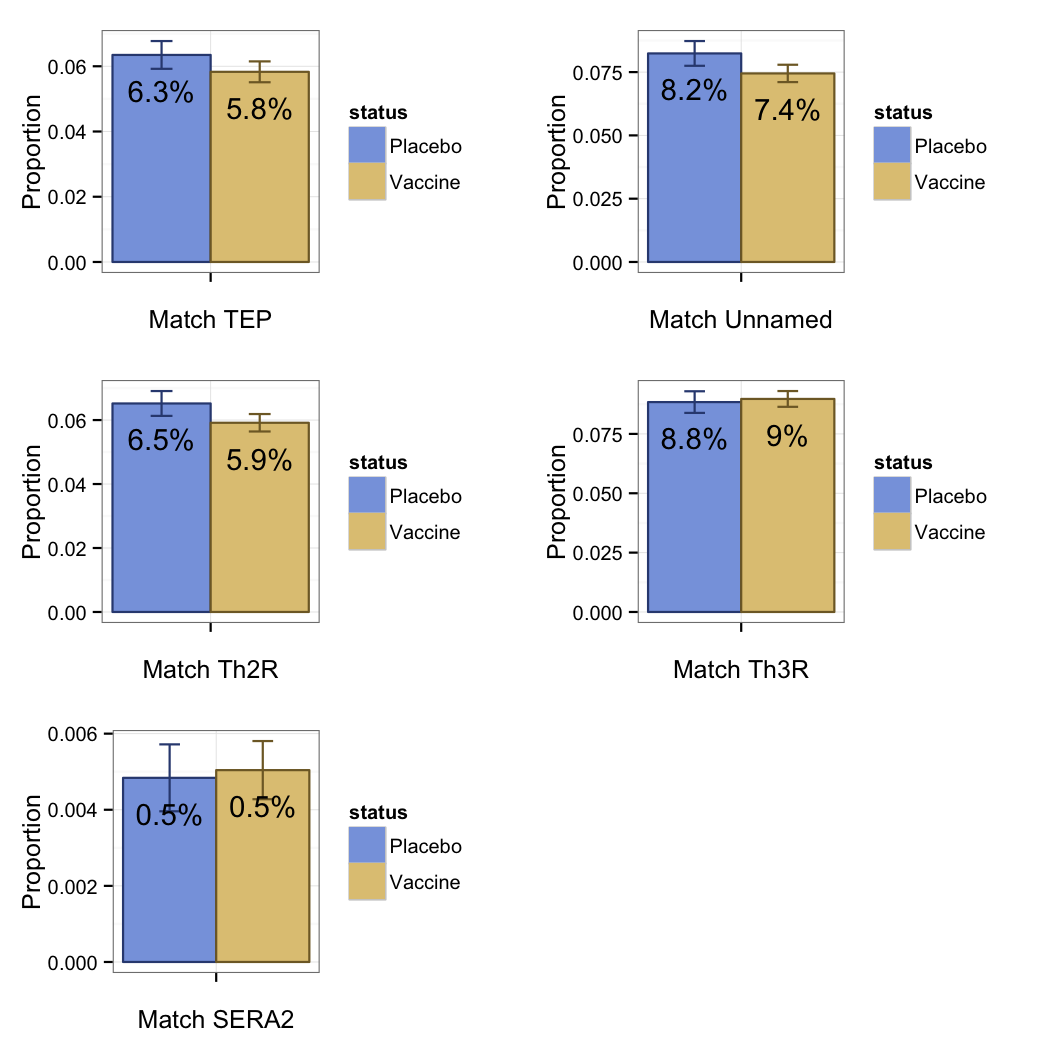
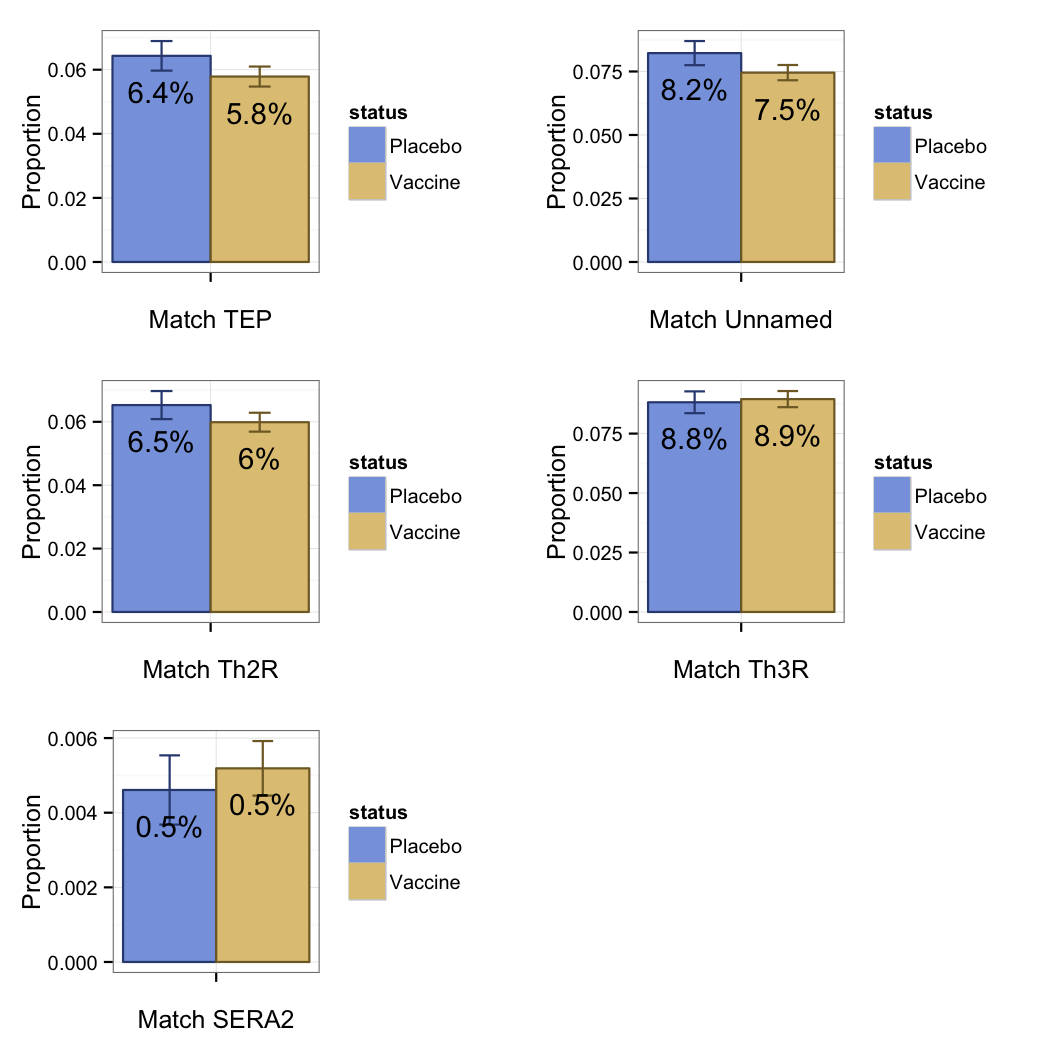
Include cross-sectional analysis.

diff --git a/descriptive-analysis/descriptive-analysis.md b/descriptive-analysis/descriptive-analysis.md
@@ -77,7 +77,8 @@ multiplot <- function(..., plotlist=NULL, file, cols=1, layout=NULL) {
 
 
 ```r
-marks_data = read.table("../adata/marks_data_c.tsv", header = TRUE)
+marks_data_c = read.table("../adata/marks_data_c.tsv", header = TRUE)
+marks_data_x = read.table("../adata/marks_data_x.tsv", header = TRUE)
 ```
 
 ### Randomly subsample to a single parasite per subject for a specific locus / mark / vaccine status combination
@@ -147,16 +148,18 @@ hamming_plot <- function(summary, xlabel) {
 }
 ```
 
-## Match vs mismatch
+## Clinical
+
+### Match vs mismatch
 
 
 ```r
-pTEP = match_plot(average_counts(marks_data, "TEP", "match_3D7"), "Match TEP")
-pUnnamed = match_plot(average_counts(marks_data, "Unnamed", "match_3D7"), "Match Unnamed")
-pTh2R = match_plot(average_counts(marks_data, "Th2R", "match_3D7"), "Match Th2R")
-pTh3R = match_plot(average_counts(marks_data, "Th3R", "match_3D7"), "Match Th3R")
-pSERA2 = match_plot(average_counts(marks_data, "SERA2", "match_3D7"), "Match SERA2")
-pTRAP = match_plot(average_counts(marks_data, "TRAP", "match_3D7"), "Match TRAP")
+pTEP = match_plot(average_counts(marks_data_c, "TEP", "match_3D7"), "Match TEP")
+pUnnamed = match_plot(average_counts(marks_data_c, "Unnamed", "match_3D7"), "Match Unnamed")
+pTh2R = match_plot(average_counts(marks_data_c, "Th2R", "match_3D7"), "Match Th2R")
+pTh3R = match_plot(average_counts(marks_data_c, "Th3R", "match_3D7"), "Match Th3R")
+pSERA2 = match_plot(average_counts(marks_data_c, "SERA2", "match_3D7"), "Match SERA2")
+pTRAP = match_plot(average_counts(marks_data_c, "TRAP", "match_3D7"), "Match TRAP")
 multiplot(pTEP, pUnnamed, pTh2R, pTh3R, pSERA2, pTRAP, cols=2, layout=matrix(c(1,2,3,4,5,6), nrow=3, byrow=TRUE))
 ```
 
@@ -166,18 +169,53 @@ multiplot(pTEP, pUnnamed, pTh2R, pTh3R, pSERA2, pTRAP, cols=2, layout=matrix(c(1
 
 ![plot of chunk unnamed-chunk-8](figure/unnamed-chunk-8-1.png) 
 
-## Hamming distance
+### Hamming distance
 
 
 ```r
-pTEP = hamming_plot(average_counts(marks_data, "TEP", "hamming_3D7"), "Hamming distance TEP")
-pUnnamed = hamming_plot(average_counts(marks_data, "Unnamed", "hamming_3D7"), "Hamming distance Unnamed")
-pTh2R = hamming_plot(average_counts(marks_data, "Th2R", "hamming_3D7"), "Hamming distance Th2R")
-pTh3R = hamming_plot(average_counts(marks_data, "Th3R", "hamming_3D7"), "Hamming distance Th3R")
-pSERA2 = hamming_plot(average_counts(marks_data, "SERA2", "hamming_3D7"), "Hamming distance SERA2")
-pTRAP = hamming_plot(average_counts(marks_data, "TRAP", "hamming_3D7"), "Hamming distance TRAP")
+pTEP = hamming_plot(average_counts(marks_data_c, "TEP", "hamming_3D7"), "Hamming distance TEP")
+pUnnamed = hamming_plot(average_counts(marks_data_c, "Unnamed", "hamming_3D7"), "Hamming distance Unnamed")
+pTh2R = hamming_plot(average_counts(marks_data_c, "Th2R", "hamming_3D7"), "Hamming distance Th2R")
+pTh3R = hamming_plot(average_counts(marks_data_c, "Th3R", "hamming_3D7"), "Hamming distance Th3R")
+pSERA2 = hamming_plot(average_counts(marks_data_c, "SERA2", "hamming_3D7"), "Hamming distance SERA2")
+pTRAP = hamming_plot(average_counts(marks_data_c, "TRAP", "hamming_3D7"), "Hamming distance TRAP")
 multiplot(pTEP, pUnnamed, pTh2R, pTh3R, pSERA2, pTRAP, cols=2, layout=matrix(c(1,2,3,4,5,6), nrow=3, byrow=TRUE))
 ```
 
 ![plot of chunk unnamed-chunk-9](figure/unnamed-chunk-9-1.png) 
 
+## Cross-sectional
+
+### Match vs mismatch
+
+
+```r
+pTEP = match_plot(average_counts(marks_data_x, "TEP", "match_3D7"), "Match TEP")
+pUnnamed = match_plot(average_counts(marks_data_x, "Unnamed", "match_3D7"), "Match Unnamed")
+pTh2R = match_plot(average_counts(marks_data_x, "Th2R", "match_3D7"), "Match Th2R")
+pTh3R = match_plot(average_counts(marks_data_x, "Th3R", "match_3D7"), "Match Th3R")
+pSERA2 = match_plot(average_counts(marks_data_x, "SERA2", "match_3D7"), "Match SERA2")
+pTRAP = match_plot(average_counts(marks_data_x, "TRAP", "match_3D7"), "Match TRAP")
+multiplot(pTEP, pUnnamed, pTh2R, pTh3R, pSERA2, pTRAP, cols=2, layout=matrix(c(1,2,3,4,5,6), nrow=3, byrow=TRUE))
+```
+
+```
+## Error: Aesthetics must either be length one, or the same length as the dataProblems:mark_value, mean, mean, status
+```
+
+![plot of chunk unnamed-chunk-10](figure/unnamed-chunk-10-1.png) 
+
+### Hamming distance
+
+
+```r
+pTEP = hamming_plot(average_counts(marks_data_x, "TEP", "hamming_3D7"), "Hamming distance TEP")
+pUnnamed = hamming_plot(average_counts(marks_data_x, "Unnamed", "hamming_3D7"), "Hamming distance Unnamed")
+pTh2R = hamming_plot(average_counts(marks_data_x, "Th2R", "hamming_3D7"), "Hamming distance Th2R")
+pTh3R = hamming_plot(average_counts(marks_data_x, "Th3R", "hamming_3D7"), "Hamming distance Th3R")
+pSERA2 = hamming_plot(average_counts(marks_data_x, "SERA2", "hamming_3D7"), "Hamming distance SERA2")
+pTRAP = hamming_plot(average_counts(marks_data_x, "TRAP", "hamming_3D7"), "Hamming distance TRAP")
+multiplot(pTEP, pUnnamed, pTh2R, pTh3R, pSERA2, pTRAP, cols=2, layout=matrix(c(1,2,3,4,5,6), nrow=3, byrow=TRUE))
+```
+
+![plot of chunk unnamed-chunk-11](figure/unnamed-chunk-11-1.png) 
